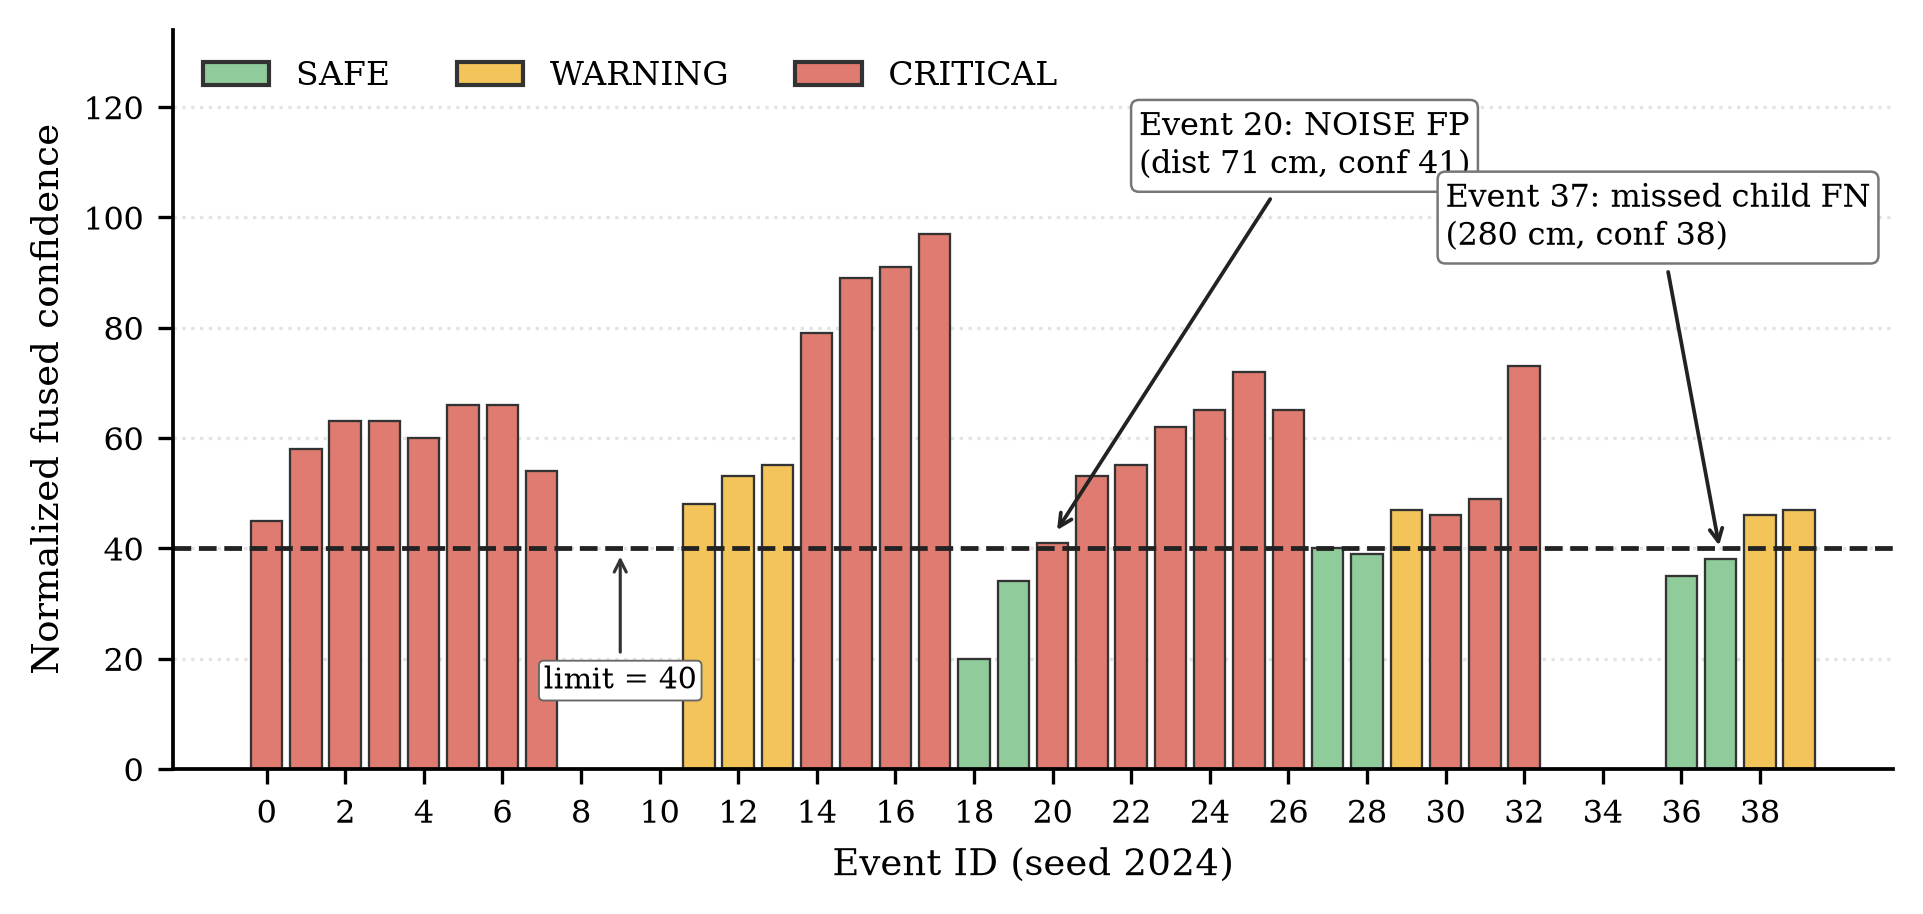
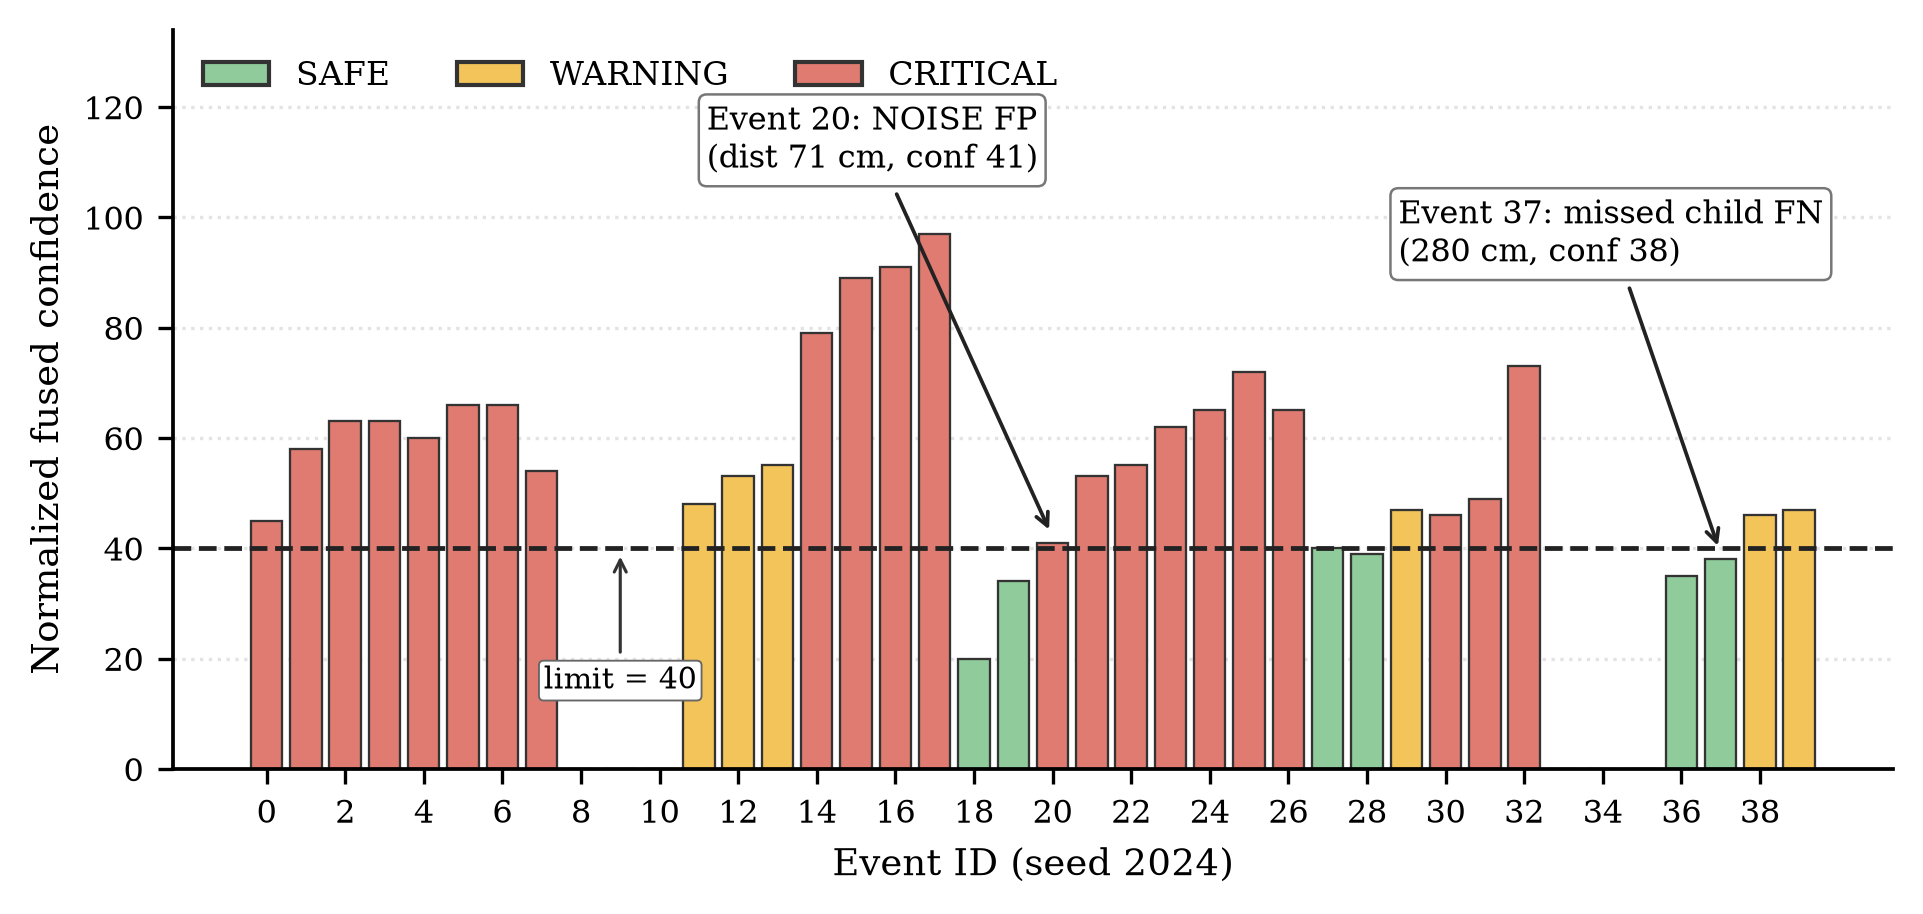
Fix Fig 6 panel labels (b,c), Fig 7 non-overlapping callouts, and Fig 4 KiB/MiB consistency

diff --git a/experiments_extra/make_figures3.py b/experiments_extra/make_figures3.py
@@ -44,14 +44,14 @@ fp_rows = s[(s.det == "YES") & (s.tru == "no") & (s.scene == "NOISE")]
 if len(fp_rows):
     r0 = fp_rows.iloc[0]
     ax.annotate("Event 20: NOISE FP\n(dist 71 cm, conf 41)",
-                xy=(r0.id, r0.conf + 1), xytext=(22.2, 108),
+                xy=(r0.id, r0.conf + 1), xytext=(11.2, 109),
                 fontsize=7.6, bbox=box, arrowprops=dict(arrowstyle="->", lw=0.9, color="#222"))
 
 fn_rows = s[(s.det == "no") & (s.tru == "YES")]
 if len(fn_rows):
     r1 = fn_rows.iloc[-1]
     ax.annotate(f"Event {int(r1.id)}: missed child FN\n({int(r1.dist)} cm, conf {int(r1.conf)})",
-                xy=(r1.id, r1.conf + 1), xytext=(30.0, 95),
+                xy=(r1.id, r1.conf + 1), xytext=(28.8, 92),
                 fontsize=7.6, bbox=box, arrowprops=dict(arrowstyle="->", lw=0.9, color="#222"))
 
 ax.set_xlabel("Event ID (seed 2024)", fontsize=8.8)
@@ -188,12 +188,12 @@ ax1.axhline(300, color="#D9822B", ls="--", lw=1.0, label="Warning limit (300 cm)
 ax1.annotate("Ev.20 NOISE FP", xy=(20, 71), xytext=(4.0, 20), fontsize=7.0,
              bbox=dict(boxstyle="round,pad=0.15", fc="white", ec="#8E44AD", lw=0.5),
              arrowprops=dict(arrowstyle="->", lw=0.7, color="#8E44AD"))
-ax1.annotate("Ev.28/37 FN", xy=(28, 285), xytext=(29.5, 355), fontsize=7.0,
+ax1.annotate("Ev.28/37 FN", xy=(28, 285), xytext=(28.5, 428), fontsize=7.0,
              bbox=dict(boxstyle="round,pad=0.15", fc="white", ec="#222", lw=0.5),
              arrowprops=dict(arrowstyle="->", lw=0.7, color="#222"))
 ax1.set_xlabel("Event ID (seed 2024)", fontsize=8.4)
 ax1.set_ylabel("Estimated distance (cm)", fontsize=8.4)
-ax1.set_title("(a) Seed 2024 classification & errors", fontsize=8.8, fontweight="bold")
+ax1.set_title("(b) Seed 2024 classification & errors", fontsize=8.8, fontweight="bold")
 ax1.set_ylim(0, 520)
 ax1.tick_params(labelsize=7.5)
 ax1.legend(fontsize=6.6, ncol=2, frameon=False, loc="upper left")
@@ -214,7 +214,7 @@ ax2.bar(xi, fp_c, bottom=np.array(tp_c)+np.array(fn_c)+np.array(tn_c), color="#8
 ax2.set_xticks(xi)
 ax2.set_xticklabels(short_sc, fontsize=7.5)
 ax2.set_ylabel("Frames (n = 4,000, 100 seeds)", fontsize=8.4)
-ax2.set_title("(b) Detection outcomes by scene", fontsize=8.8, fontweight="bold")
+ax2.set_title("(c) Detection outcomes by scene", fontsize=8.8, fontweight="bold")
 ax2.tick_params(labelsize=7.5)
 ax2.legend(fontsize=6.8, frameon=False, loc="upper right")
 ax2.grid(axis="y", ls=":", alpha=0.35)
@@ -439,5 +439,32 @@ for (x0, y0, x1, y1, lbl, lx, ly) in [
     if lbl:
         ax.text(lx, ly, lbl, ha="center", va="center", fontsize=6.4)
 save(fig, "fig_danger_flow.png")
+
+# gem5 Platform Architecture Diagram (KiB/MiB consistent with Table 8 & Fig. 9b)
+fig, ax = plt.subplots(figsize=(3.6, 4.85))
+ax.set_xlim(0, 100); ax.set_ylim(0, 146); ax.axis("off")
+def gbox(x, y, w, h, t, fc):
+    ax.add_patch(FancyBboxPatch((x, y), w, h, boxstyle="round,pad=0.4,rounding_size=1.2", fc=fc, ec="#222", lw=0.9))
+    ax.text(x + w/2, y + h/2, t, ha="center", va="center", fontsize=6.6, linespacing=1.35)
+def garr(x0, y0, x1, y1):
+    ax.add_patch(FancyArrowPatch((x0, y0), (x1, y1), arrowstyle="-|>", mutation_scale=8.5, lw=1.0, color="#222"))
+
+gbox(12, 129, 76, 12, "Static RISC-V binary\n(rv64gc, lp64d)", "#E2E6EC")
+gbox(12, 105, 76, 13, "CPU model, 1 GHz\nTimingSimple / Minor (O3 optional)", "#DCE6F5")
+gbox(4,  78,  41, 15, "L1 I-cache\n32 KiB, 4-way", "#DDEFD9")
+gbox(55, 78,  41, 15, "L1 D-cache\n32 KiB, 4-way", "#DDEFD9")
+gbox(12, 54,  76, 11, "L2 bus (crossbar)", "#F2EFE4")
+gbox(18, 30,  64, 13, "L2 cache\n256 KiB, 8-way", "#DDEFD9")
+gbox(12, 16,  76,  8, "System bus (crossbar)", "#F2EFE4")
+gbox(12,  1,  76,  9, "Memory controller\nDDR3-1600, 512 MiB", "#FCEBC2")
+garr(50, 128.5, 50, 118.5)
+garr(34, 104.5, 25,  93.5)
+garr(66, 104.5, 75,  93.5)
+garr(25,  77.5, 36,  65.5)
+garr(75,  77.5, 64,  65.5)
+garr(50,  53.5, 50,  43.5)
+garr(50,  29.5, 50,  24.5)
+garr(50,  15.5, 50,  10.5)
+save(fig, "fig_gem5_arch.png")
 
 print("All publication figures generated cleanly.")
